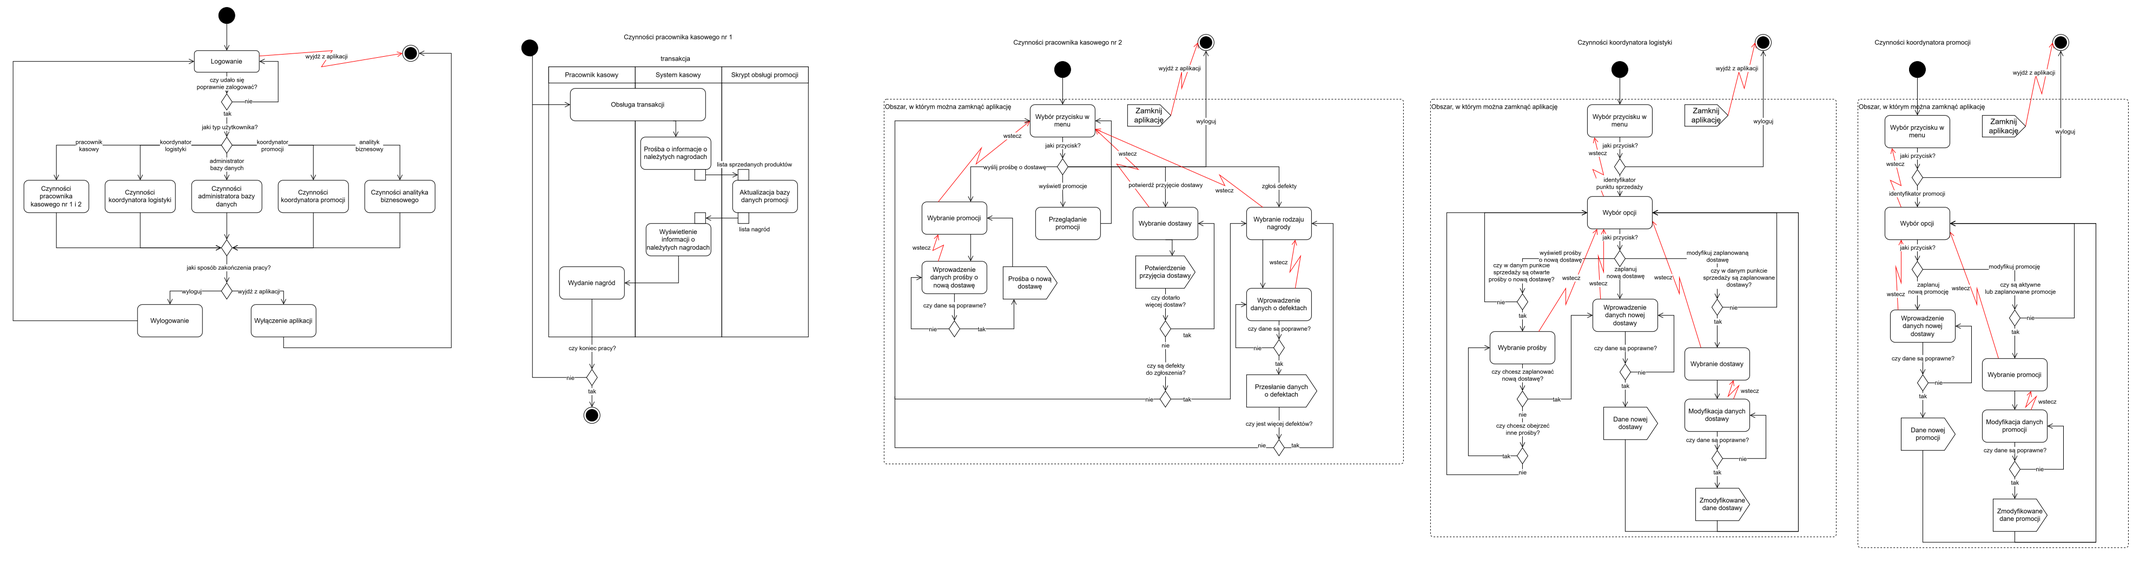
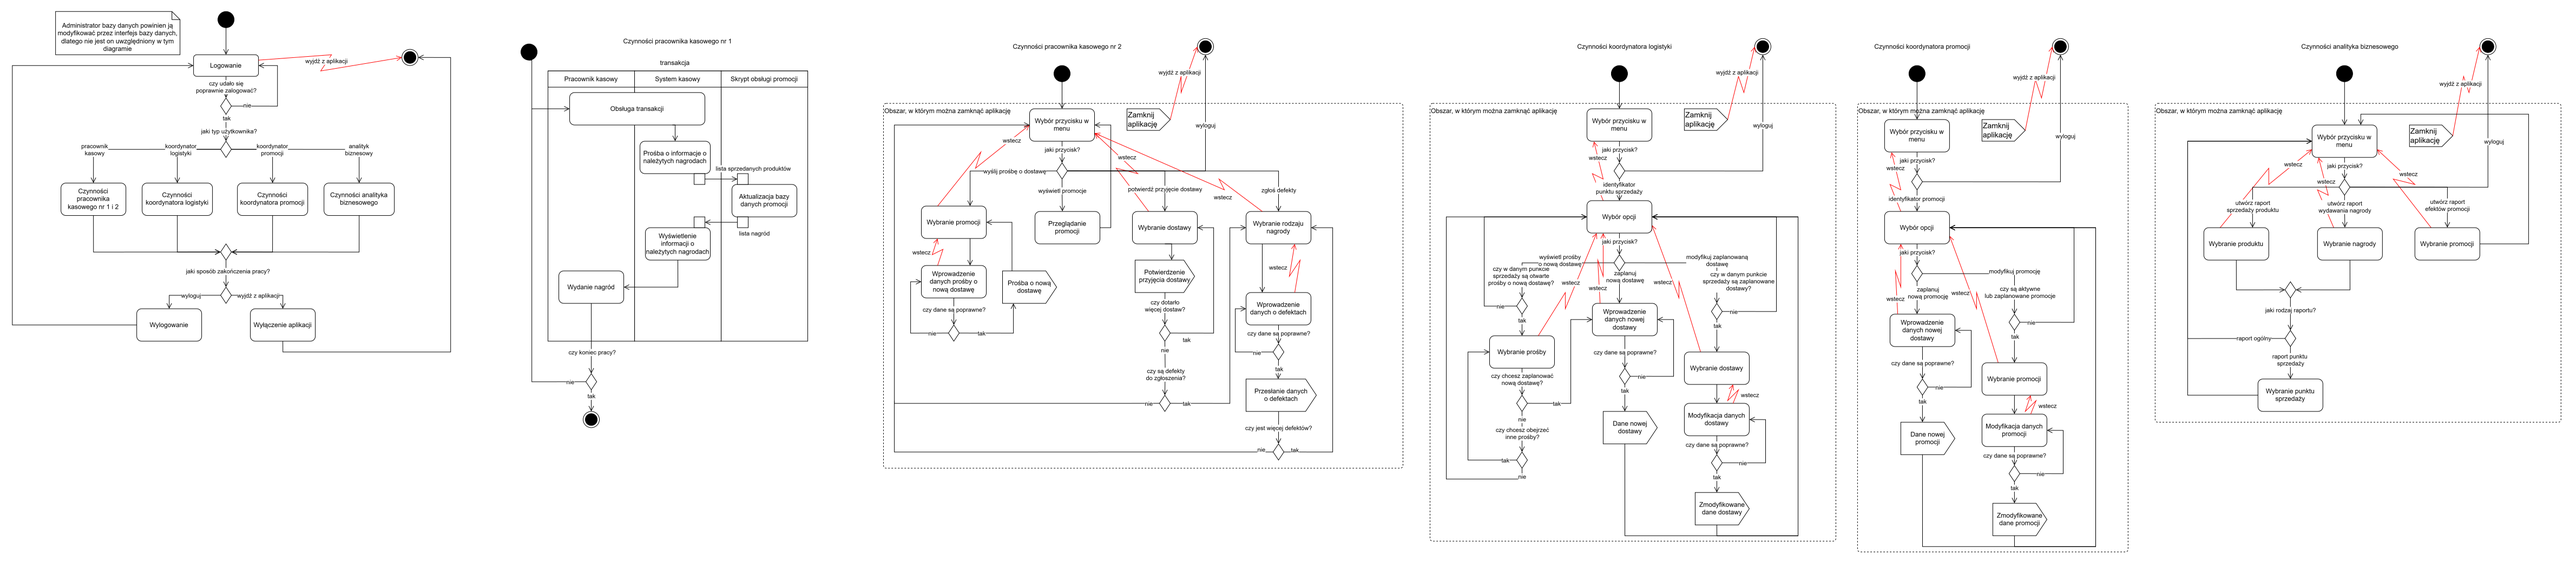
Added business side to activity diagram

diff --git a/docs/Intrukcja obsługi.tex b/docs/Intrukcja obsługi.tex
@@ -1,0 +1,5 @@
+% w których sprawach należy komunikować się z administratorem
+
+% jak wybierać opcje (np. punkty sprzedaży w tabelce)
+
+% jak znaleźć wygenerowane pdfy (czy może się od razu otwierają systemowo w domyślnym programie?)
